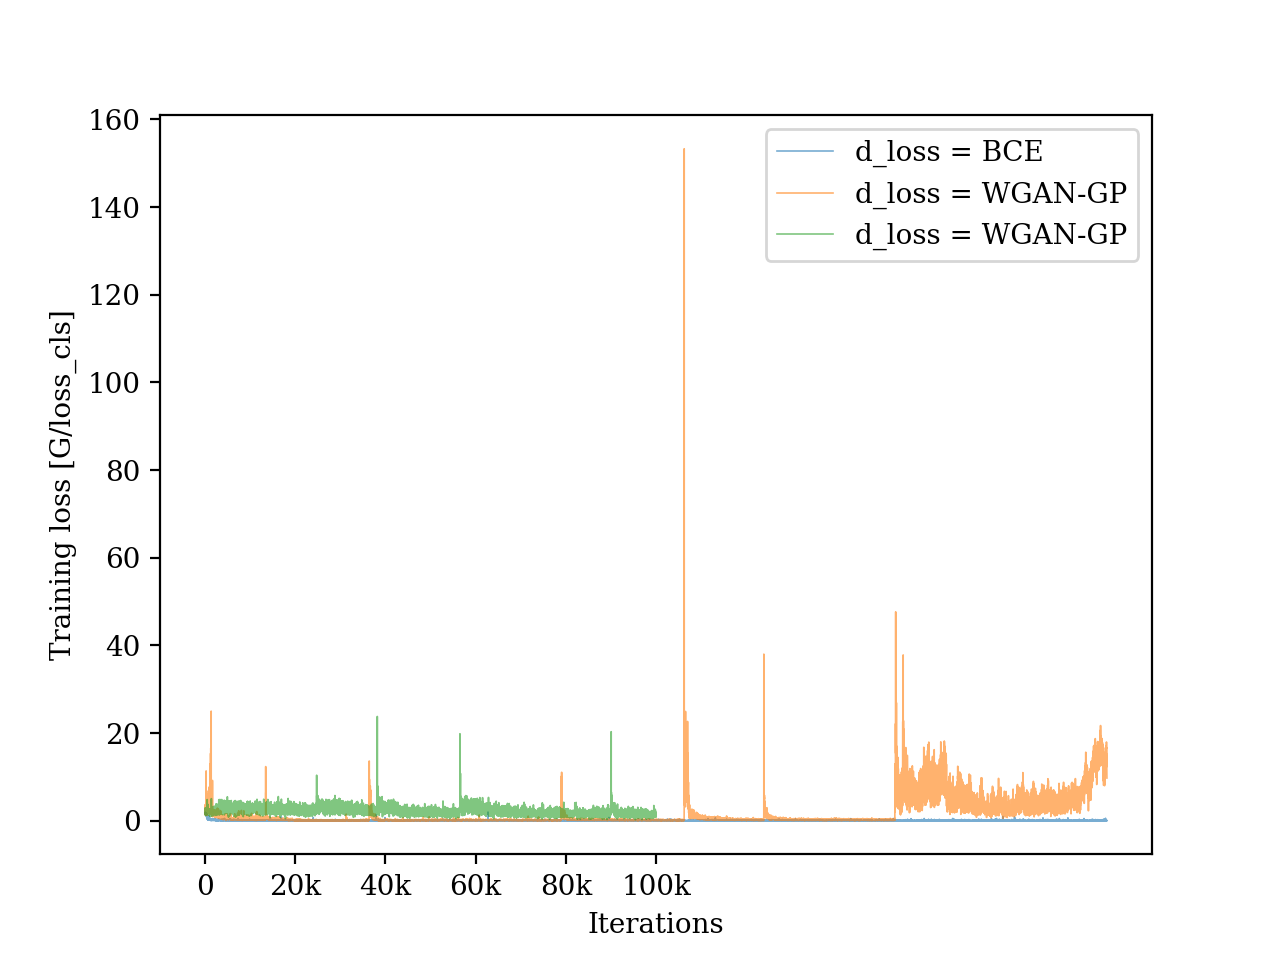
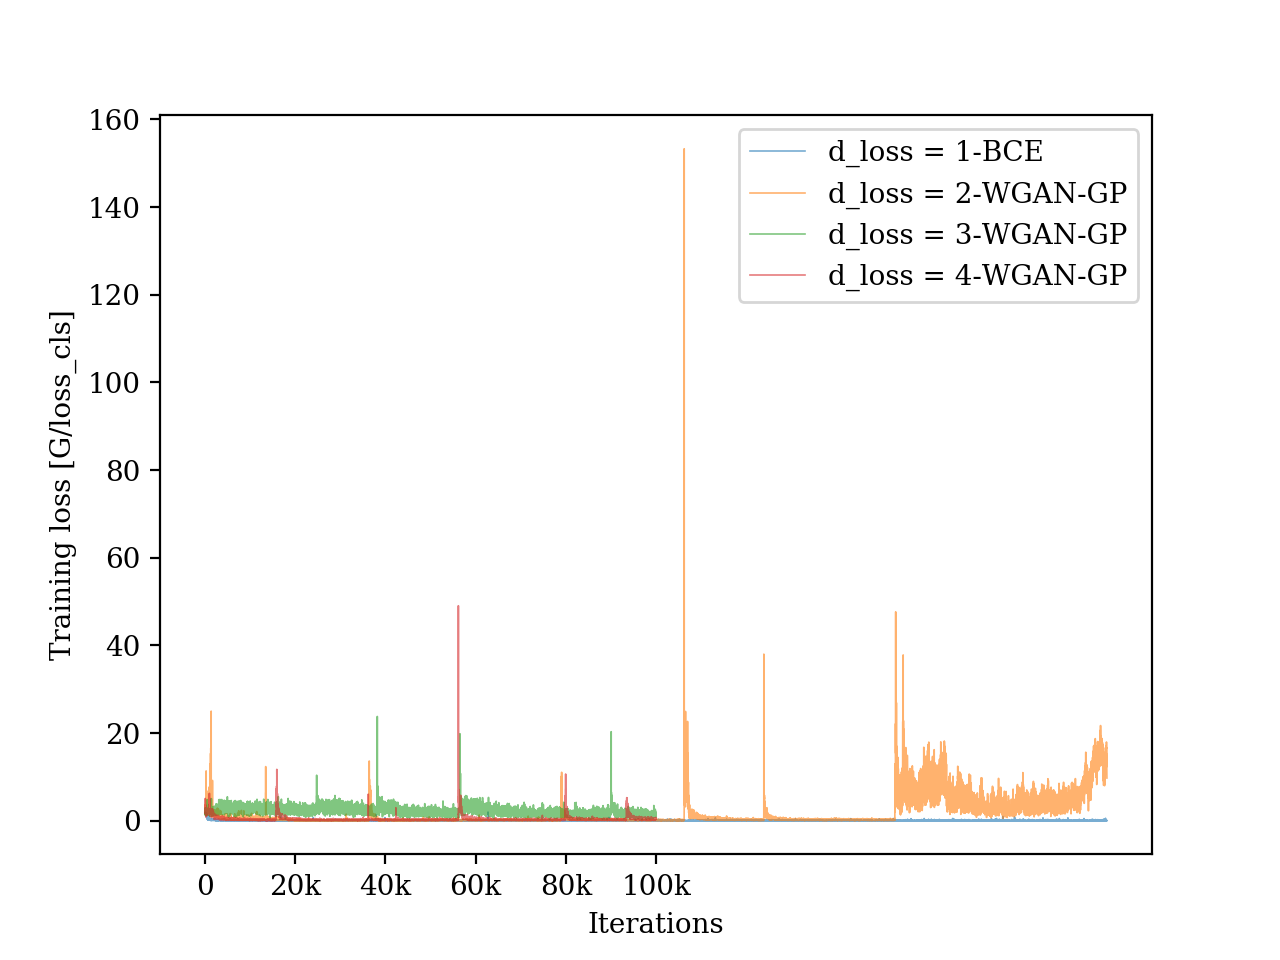
Add plots

Changed region(s): [[0.5938, 0.125, 0.875, 0.3125], [0.1562, 0.8125, 0.5, 0.875]]

diff --git a/trainer.py b/trainer.py
@@ -1,3 +1,4 @@
+:q
 import datetime
 import os
 import time
